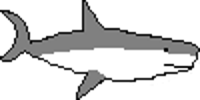
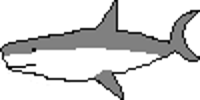
Munizioni nuove

Changed region(s): [[0.0, 0.09, 1.0, 1.0], [0.36, 0.0, 0.63, 0.36]]

diff --git a/src/main/java/BallPanel.java b/src/main/java/BallPanel.java
@@ -222,7 +222,7 @@ public class BallPanel extends JPanel implements KeyListener, ActionListener {
 
     public void paintBackground(Graphics g) {
         int count = 0;
-        for (int i = -500; i < 10000; i += background.getIconWidth()) {
+        for (int i = bX - background.getIconWidth(); i < 10000+bX; i += background.getIconWidth()) {
             count++;
             if (count % 2 == 0) {
                 background.paintIcon(this, g, i+getX(), bY);
@@ -292,7 +292,7 @@ public class BallPanel extends JPanel implements KeyListener, ActionListener {
         lgo.add(new Vite(this, lgo, 500, 1100, "images/Pozione.png"));
         lgo.add(new Ground(this, lgo, 200, 3000, 10000, 1300, 0, 0, "images/SabbiaEsterno.png", "images/SabbiaInterno.png"));
         lgo.add(new Ground(this, lgo, 3000, 200, 10000, 4000, 0, 0, "images/SabbiaEsterno.png", "images/SabbiaInterno.png"));
-        lgo.add(new Squalo(this, lgo, 3000, 500, "images/SqualoGrandeL.png", "images/SqualoGrandeR.png"));
+        lgo.add(new Squalo(this, lgo, 3000, 500, "images/SqualoGrandeR.png", "images/SqualoGrandeL.png"));
         lgo.add(new Granchio(this, lgo, 600, 500, "images/GranchioL.png", "images/GranchioR.png"));
         lgo.add( new Ground(this, lgo, 100, 10000, -100, 0, 0, 0, null, null));
         lgo.add( new Ground(this, lgo, 100, 10000, 10000, 0, 0, 0, null, null));
@@ -331,6 +331,5 @@ public class BallPanel extends JPanel implements KeyListener, ActionListener {
         lgo.add(new Squalo(this, lgo, 3000, 500, "images/SqualoGrandeL.png", "images/SqualoGrandeR.png"));
         lgo.add(new Granchio(this, lgo, 600, 500, "images/GranchioL.png", "images/GranchioR.png"));
     }
-
 
 }

diff --git a/src/main/java/Ground.java b/src/main/java/Ground.java
@@ -34,10 +34,10 @@ public class Ground extends AbstractGameObject {
 
     @Override
     public void paint(Graphics g) {
-        for (double i = x; i < x + w; i += 50) {
+        for (double i = x; i < x + w - 1; i += 50) {
             icons[0].paintIcon(parent, g,(int) i,(int) y);
         }
-        for (double i = x; i < x + w; i += 50) {
+        for (double i = x; i < x + w - 1; i += 50) {
             for (double j = y + 50; j < y + h; j += 50) {
                 icons[1].paintIcon(parent, g,(int) i,(int) j);
             }
